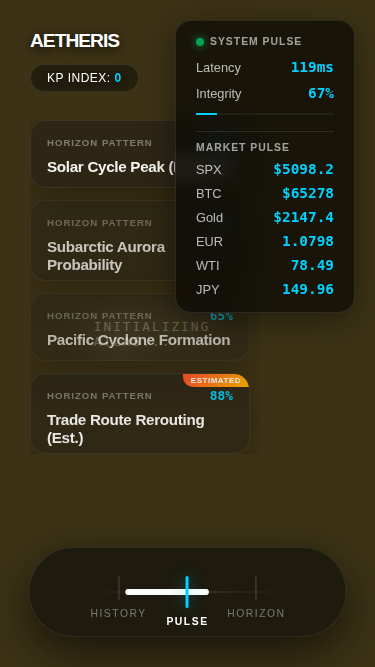
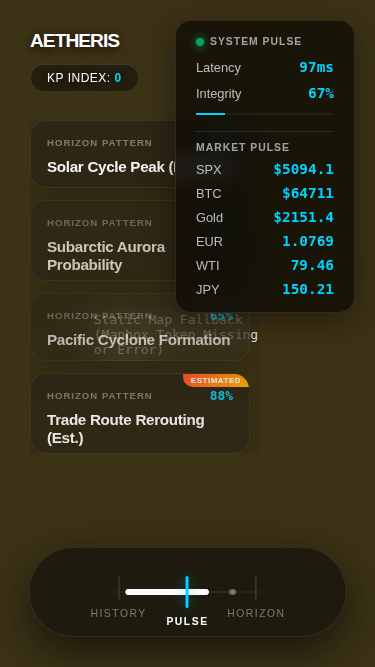
Fix Mapbox fallback in Atlas and suppress expected fetch error log in worker tests

diff --git a/src/components/map/atlas.tsx b/src/components/map/atlas.tsx
@@ -214,6 +214,8 @@ const Atlas = ({ events = [], ghostCards = [], kpIndex = 0, mapErrorProp = false
                        (typeof import.meta !== 'undefined' && import.meta.env?.VITE_MAPBOX_TOKEN) ||
                        '';
 
+  const showFallback = mapError || !MAPBOX_TOKEN;
+
   const [selectedEvent, setSelectedEvent] = useState<any>(selectedEventProp);
 
   const handleMarkerClick = (event: any, e: any) => {
@@ -298,10 +300,10 @@ const Atlas = ({ events = [], ghostCards = [], kpIndex = 0, mapErrorProp = false
         }} />
       )}
 
-      {mapError ? (
+      {showFallback ? (
         <MapMock style={{ width: '100%', height: '100%' }}>
-           <div style={{ color: 'red', position: 'absolute', top: '50%', left: '50%', transform: 'translate(-50%, -50%)' }}>
-             Map failed to load.
+           <div style={{ color: 'white', position: 'absolute', top: '50%', left: '50%', transform: 'translate(-50%, -50%)', fontFamily: 'monospace' }}>
+             Static Map Fallback (Mapbox Token Missing or Error)
            </div>
         </MapMock>
       ) : MapComponents ? (

diff --git a/tests/worker.test.ts b/tests/worker.test.ts
@@ -62,7 +62,10 @@ globalThis.Response = MockResponse as any;
     const notFoundRes = await worker.fetch({ url: 'http://localhost/api/unknown', method: 'GET' }, env, {});
     assert.strictEqual(notFoundRes.status, 404);
 
+    const originalConsoleError = console.error;
+    console.error = () => {};
     const errRes = await worker.fetch({ url: 'http://localhost/api/health', method: 'GET' }, badEnv, {});
+    console.error = originalConsoleError;
     assert.strictEqual(errRes.status, 500);
 
     // Scheduled

diff --git a/tests/atlas.test.tsx b/tests/atlas.test.tsx
@@ -105,7 +105,7 @@ function testAtlas() {
   assert.ok(htmlGC.includes('Estimated'));
 
   // Error state
-  assert.ok(renderToStaticMarkup(<Atlas mapErrorProp={true} />).includes('Map failed to load'));
+  assert.ok(renderToStaticMarkup(<Atlas mapErrorProp={true} />).includes('Static Map Fallback'));
 
   // loadMapComponents branches
   const oldWindow = globalThis.window;

diff --git a/docs/release-notes.md b/docs/release-notes.md
@@ -1,6 +1,8 @@
 # Release Notes — Aetheris
 
 ## v0.1.15 — Additional Layers & Core Features
+- [x] TASK: fix-mapbox-token-fallback | Target: src/components/map/atlas.tsx | I/O: bugfix | Assert: Atlas renders properly when Mapbox token is missing via mocked static map fallback, removing "Map failed to load." error. | LOC: ~10
+- [x] TASK: worker-test-fetch-error | Target: tests/worker.test.ts | I/O: bugfix | Assert: fix "Worker Fetch Error: Error: fail" in `worker.test.ts` mocking logic. | LOC: ~10
 - [x] TASK: command-palette-navigation | Target: src/components/ui/command-palette.tsx | I/O: feature | Assert: ⌘K / Ctrl-K opens 154 commands | LOC: ~150
 - [x] TASK: live-ais-vessel-tracking | Target: src/components/map/atlas.tsx | I/O: feature | Assert: integrates AISStream for live vessel layers | LOC: ~100
 - [x] TASK: subsea-cables-layer | Target: src/components/map/atlas.tsx | I/O: feature | Assert: renders 86 submarine cables | LOC: ~80

diff --git a/docs/backlog.md b/docs/backlog.md
@@ -5,8 +5,6 @@
 ---
 
 ## 🚨 Critical Tech Debt & Active Bugs
-- [ ] TASK: fix-mapbox-token-fallback | Target: src/components/map/atlas.tsx | I/O: bugfix | Assert: Atlas renders properly when Mapbox token is missing via mocked static map fallback, removing "Map failed to load." error. | LOC: ~10
-- [ ] TASK: worker-test-fetch-error | Target: tests/worker.test.ts | I/O: bugfix | Assert: fix "Worker Fetch Error: Error: fail" in `worker.test.ts` mocking logic. | LOC: ~10
 
 ---
 
